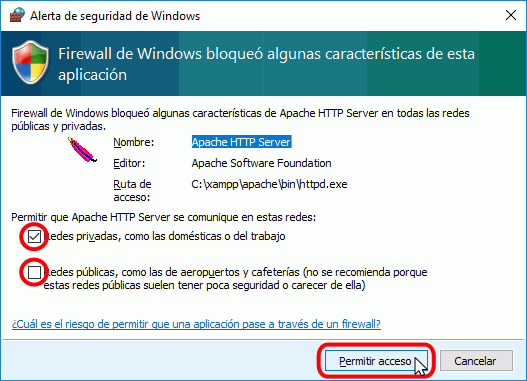
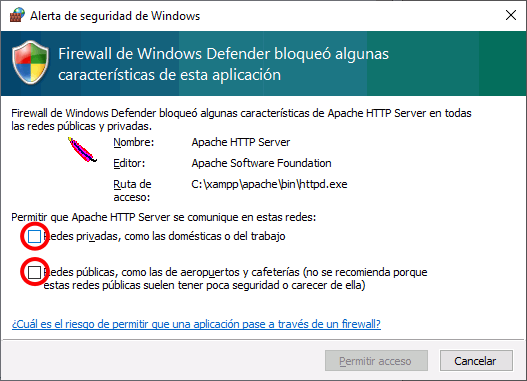
Xampp instalación Windows: Amplio explicación cortafuegos de Windows

diff --git a/otros/xampp-instalacion-windows.html b/otros/xampp-instalacion-windows.html
@@ -40,7 +40,7 @@
 
   <p>En estos apuntes se recomienda el paquete <a href="https://www.apachefriends.org/index.html">XAMPP</a>. En la lección <a href="xampp.html">Qué es XAMPP</a> se explica qué es XAMPP, qué versión se recomienda en estos apuntes y cómo conseguirla.</p>
 
-  <p>En esta lección se explica la Instalación y el uso de XAMPP en Windows 10. Las capturas corresponden a la instalación de XAMPP 7.1.8 en Windows 10.</p>
+  <p>En esta lección se explica la Instalación y el uso de XAMPP en Windows 10. Las capturas corresponden a la instalación de XAMPP 8.0.9 en Windows 10.</p>
 
   <section id="instalar">
     <h2>Instalar XAMPP en Windows 10</h2>
@@ -292,26 +292,56 @@
         <img src="../img/xampp/xampp-control-panel-firewall-01.png" alt="XAMPP - Panel de control" title="XAMPP - Arrancar Apache" width="668" height="434">
       </p>
 
-      <p>... como Apache abre puertos en el ordenador (por primera vez), el cortafuegos de Windows pide al usuario confirmación. Para poder utilizarlo hace falta al menos autorizar el acceso en redes privadas:</p>
+      <p>... como es la primera vez que Apache abre puertos en el ordenador, el cortafuegos de Windows pregunta al usuario en qué perfiles de red se permitirá que Apache se comunique con otros equipos. Si lo permitimos, otros equipos de la misma red local podrán ver páginas en nuestro servidor.</p>
 
       <p class="captura">
         <img src="../img/xampp/xampp-control-panel-firewall-02.png" alt="XAMPP - Aviso del cortafuegos de Windows" title="XAMPP - Aviso del cortafuegos de Windows" width="527" height="381">
       </p>
 
-      <hr class="corta">
+      <p>Para saber qué perfil es necesario autorizar, tendremos que saber qué perfil estamos utilizando. Para ello, tenemos que abrir la aplicación Configuración &gt; Red e Internet y hacer clic en Propiedades de Ethernet:</p>
+
+      <p class="captura">
+        <img src="../img/xampp/windows-configuracion-perfil-red-1.png" alt="Windows - Perfil de red" title="XAMPP - Windows - Perfil de red" width="1024" height="450">
+      </p>
+
+      <p>Se abrirá la pantalla del perfil de red, en la que podremos ver si nuestro perfil de red es red pública o red privada:</p>
+
+      <p class="captura">
+        <img src="../img/xampp/windows-configuracion-perfil-red-2.png" alt="Windows - Perfil de red" title="XAMPP - Windows - Perfil de red" width="1024" height="410">
+      </p>
+
+      <p>En principio, sería suficiente con autorizar el perfil que tengamos seleccionado (sea este público o privado). pero también podemos autorizar ambos perfiles para que Apache sea siempre accesible independientemente del perfil:</p>
+
+      <p class="captura">
+        <img src="../img/xampp/xampp-control-panel-firewall-03.png" alt="XAMPP - Aviso del cortafuegos de Windows" title="XAMPP - Aviso del cortafuegos de Windows" width="527" height="381">
+      </p>
 
       <p>Si el arranque de Apache tiene éxito, el panel de control mostrará el nombre del módulo con fondo verde, su identificador de proceso, los puertos abiertos (http y https), el botón "Start" se convertirá en el botón "Stop" y en la zona de notificación se verá el resultado de las operaciones realizadas.</p>
 
       <p class="captura">
-        <img src="../img/xampp/xampp-control-panel-firewall-03.png" alt="XAMPP - Apache arrancado" title="XAMPP - Apache arrancado" width="668" height="434">
+        <img src="../img/xampp/xampp-control-panel-firewall-04.png" alt="XAMPP - Apache arrancado" title="XAMPP - Apache arrancado" width="668" height="434">
+      </p>
+
+      <p>Si se abre el programa "Windows Defender Firewall con seguridad avanzada", en el apartado de Reglas de entrada se puede ver las nuevas reglas añadidas.</p>
+
+      <p class="captura">
+        <img src="../img/xampp/xampp-control-panel-firewall-05.png" alt="XAMPP - Cortafuegos de Windows" title="XAMPP - Cortafuegos de Windows" width="1182" height="200">
       </p>
 
       <hr class="corta">
 
-      <p>Si se abre el programa "Firewall de Windows con seguridad avanzada", en el apartado de Reglas de entrada se puede ver las nuevas reglas añadidas.</p>
+      <p>Si observamos que Apache no es accesible desde otros ordenadores de nuestra red pero sí desde el propio ordenador, seguramente es que sólo están autorizadas las conexiones para el perfil distinto al actual.</p>
+
+      <p>Abriendo el programa "Windows Defender Firewall con seguridad avanzada", en el apartado de Reglas de entrada seguramente podremos las reglas de Apache que bloquean el acceso a nuestro perfil de red..</p>
 
       <p class="captura">
-        <img src="../img/xampp/xampp-control-panel-firewall-04.png" alt="XAMPP - Cortafuegos de Windows" title="XAMPP - Cortafuegos de Windows" width="850" height="255">
+        <img src="../img/xampp/xampp-control-panel-firewall-06.png" alt="XAMPP - Cortafuegos de Windows" title="XAMPP - Cortafuegos de Windows" width="1047" height="240">
+      </p>
+
+      <p>Para permitir la conexión, basta con hacer clic derecho sobre la regla, elegir en el menú contextual la opción Propiedades y en la pestaña General hacer clic en Permitir la conexión y en Aceptar.</p>
+
+      <p class="captura">
+        <img src="../img/xampp/xampp-control-panel-firewall-07.png" alt="XAMPP - Cortafuegos de Windows" title="XAMPP - Cortafuegos de Windows" width="1047" height="600">
       </p>
     </section>
 
@@ -416,7 +446,7 @@
   </section>
 
   <footer>
-    <p class="ultmod">Última modificación de esta página: 21 de septiembre de 2021</p>
+    <p class="ultmod">Última modificación de esta página: 22 de septiembre de 2021</p>
 
     <p class="licencia">
       <a rel="license" href="https://creativecommons.org/licenses/by-sa/4.0/deed.es_ES"><img src="../varios/iconos/icono-cc-by-sa.svg" alt="Licencia Creative Commons" title="Licencia Creative Commons BY-SA" width="120" height="42"></a><br>

diff --git a/index.html b/index.html
@@ -17,7 +17,7 @@
 
   <h1>Programación web en PHP</h1>
 
-  <p>Estos apuntes del <strong>Curso de iniciación a la programación de páginas web en PHP</strong> se impartieron durante el primer trimestre del curso 2019/20 en el módulo <strong>Implantación de Aplicaciones Web</strong> del ciclo formativo <strong>Administración de Sistemas Informáticos en Red</strong> (ASIR) en el IES Abastos de Valencia (España).</p>
+  <p>Estos apuntes del <strong>Curso de iniciación a la programación de páginas web en PHP</strong> se están impartiendo durante el primer trimestre del curso 2021/22 en el módulo <strong>Implantación de Aplicaciones Web</strong> del ciclo formativo <strong>Administración de Sistemas Informáticos en Red</strong> (ASIR) en el IES Abastos de Valencia (España).</p>
 
   <p><a href="https://github.com/BartolomeSintes/mclibre-php"><img style="position: absolute; top: 0; right: 0; border: 0; opacity: 0.7;" src="https://camo.githubusercontent.com/e7bbb0521b397edbd5fe43e7f760759336b5e05f/68747470733a2f2f73332e616d617a6f6e6177732e636f6d2f6769746875622f726962626f6e732f666f726b6d655f72696768745f677265656e5f3030373230302e706e67" alt="Fork me on GitHub" data-canonical-src="https://s3.amazonaws.com/github/ribbons/forkme_right_green_007200.png"></a></p>
 
@@ -252,7 +252,7 @@
   </div>
 
   <footer>
-    <p class="ultmod">Última modificación de alguna página de este curso: 14 de septiembre de 2021</p>
+    <p class="ultmod">Última modificación de alguna página de este curso: 22 de septiembre de 2021</p>
 
     <p class="licencia">
       <a rel="license" href="https://creativecommons.org/licenses/by-sa/4.0/deed.es_ES"><img src="varios/iconos/icono-cc-by-sa.svg" alt="Licencia Creative Commons" title="Licencia Creative Commons BY-SA" width="120" height="42"></a><br>
